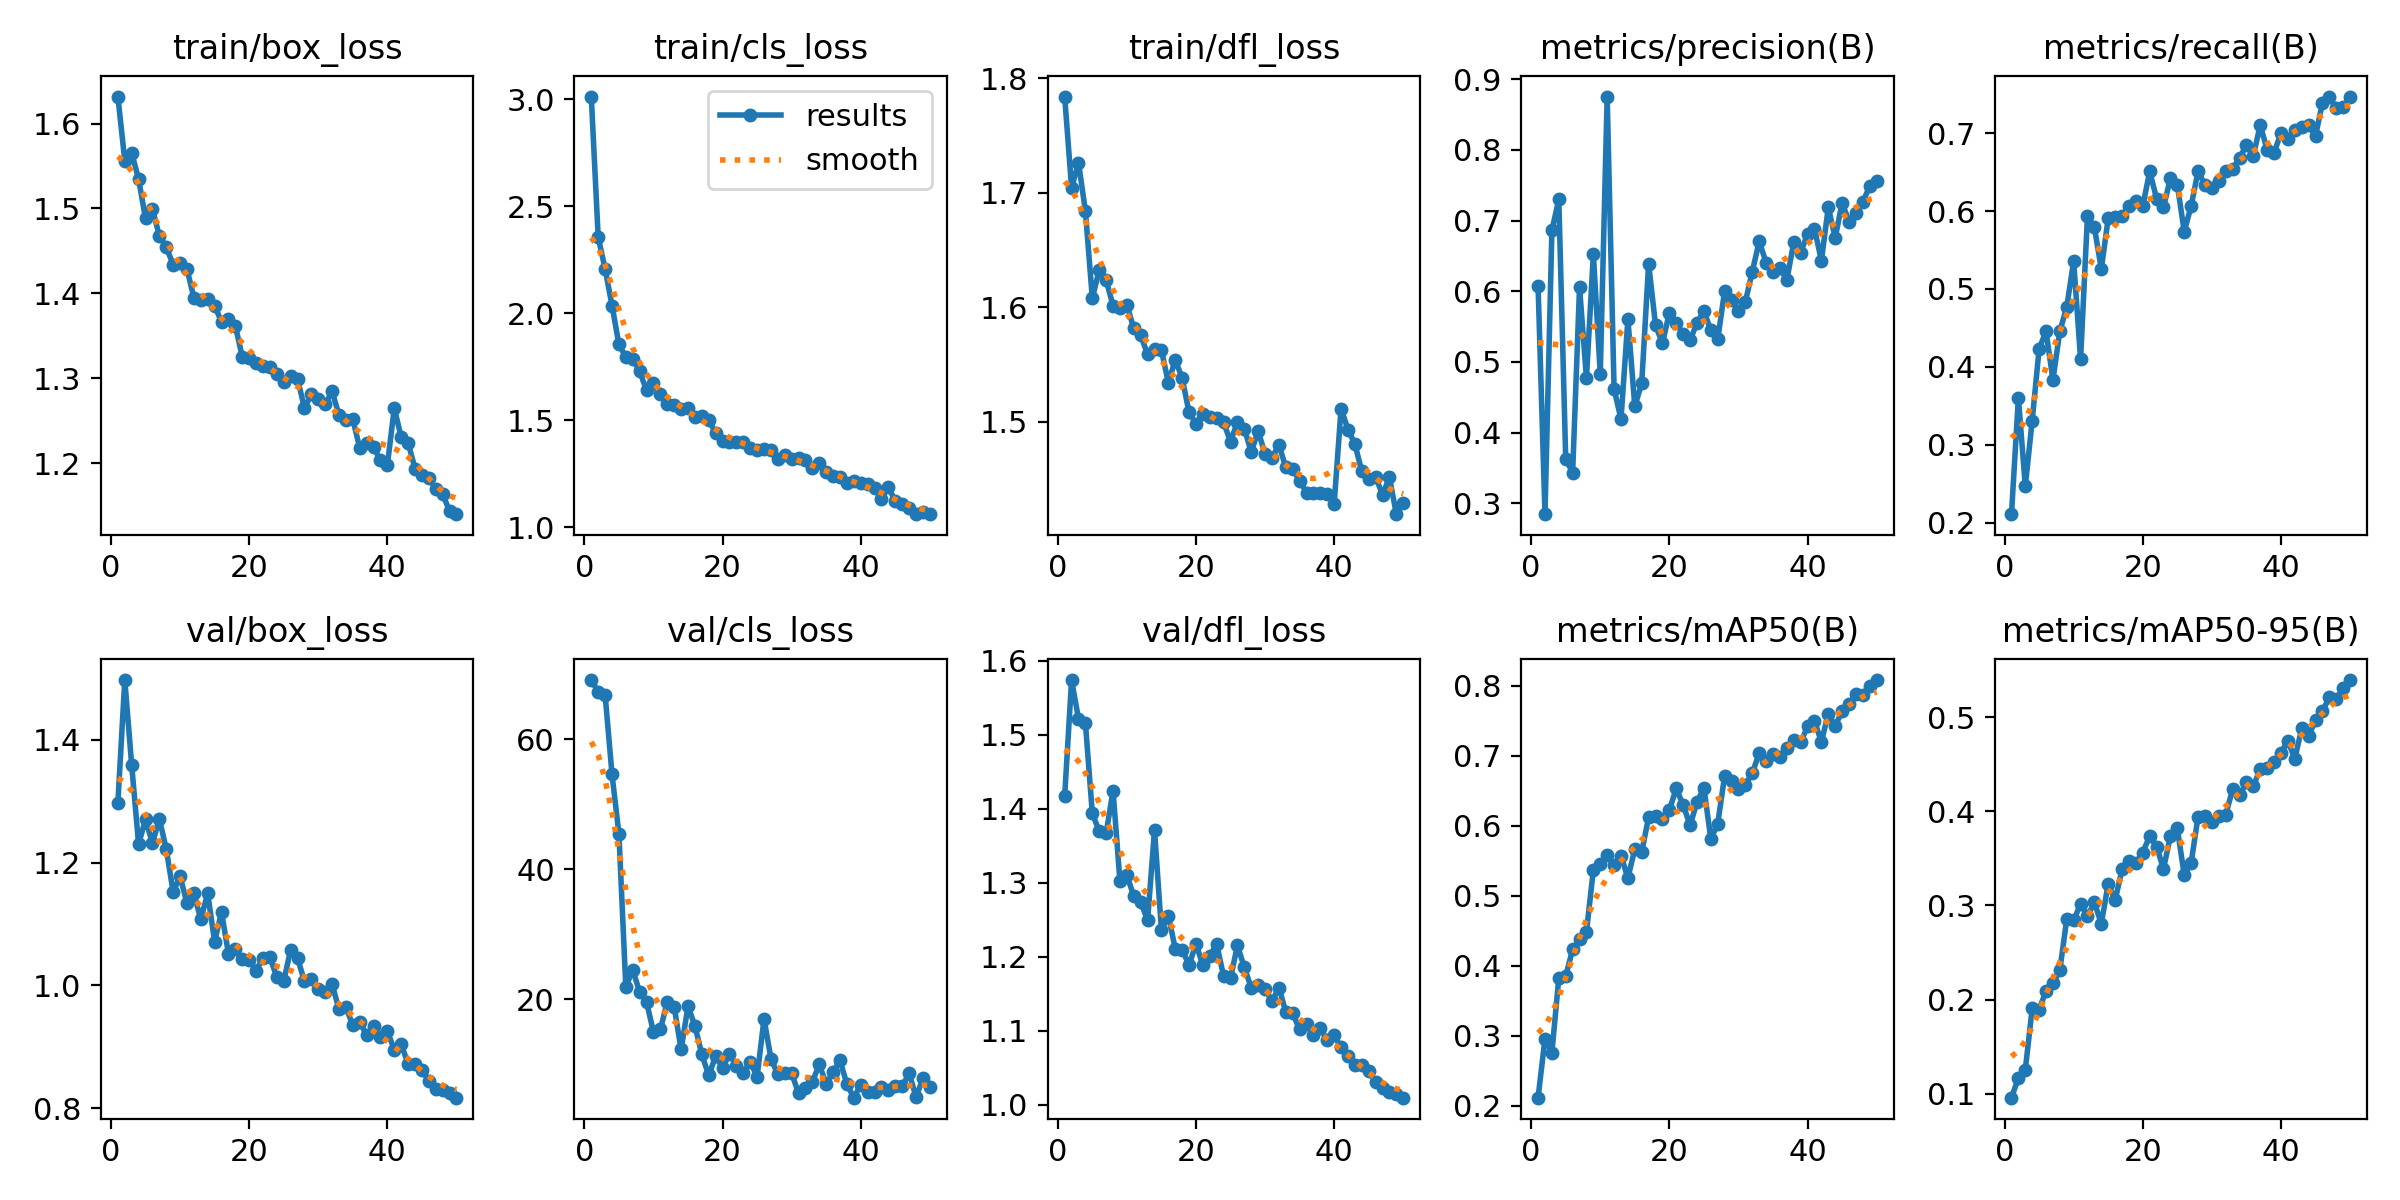
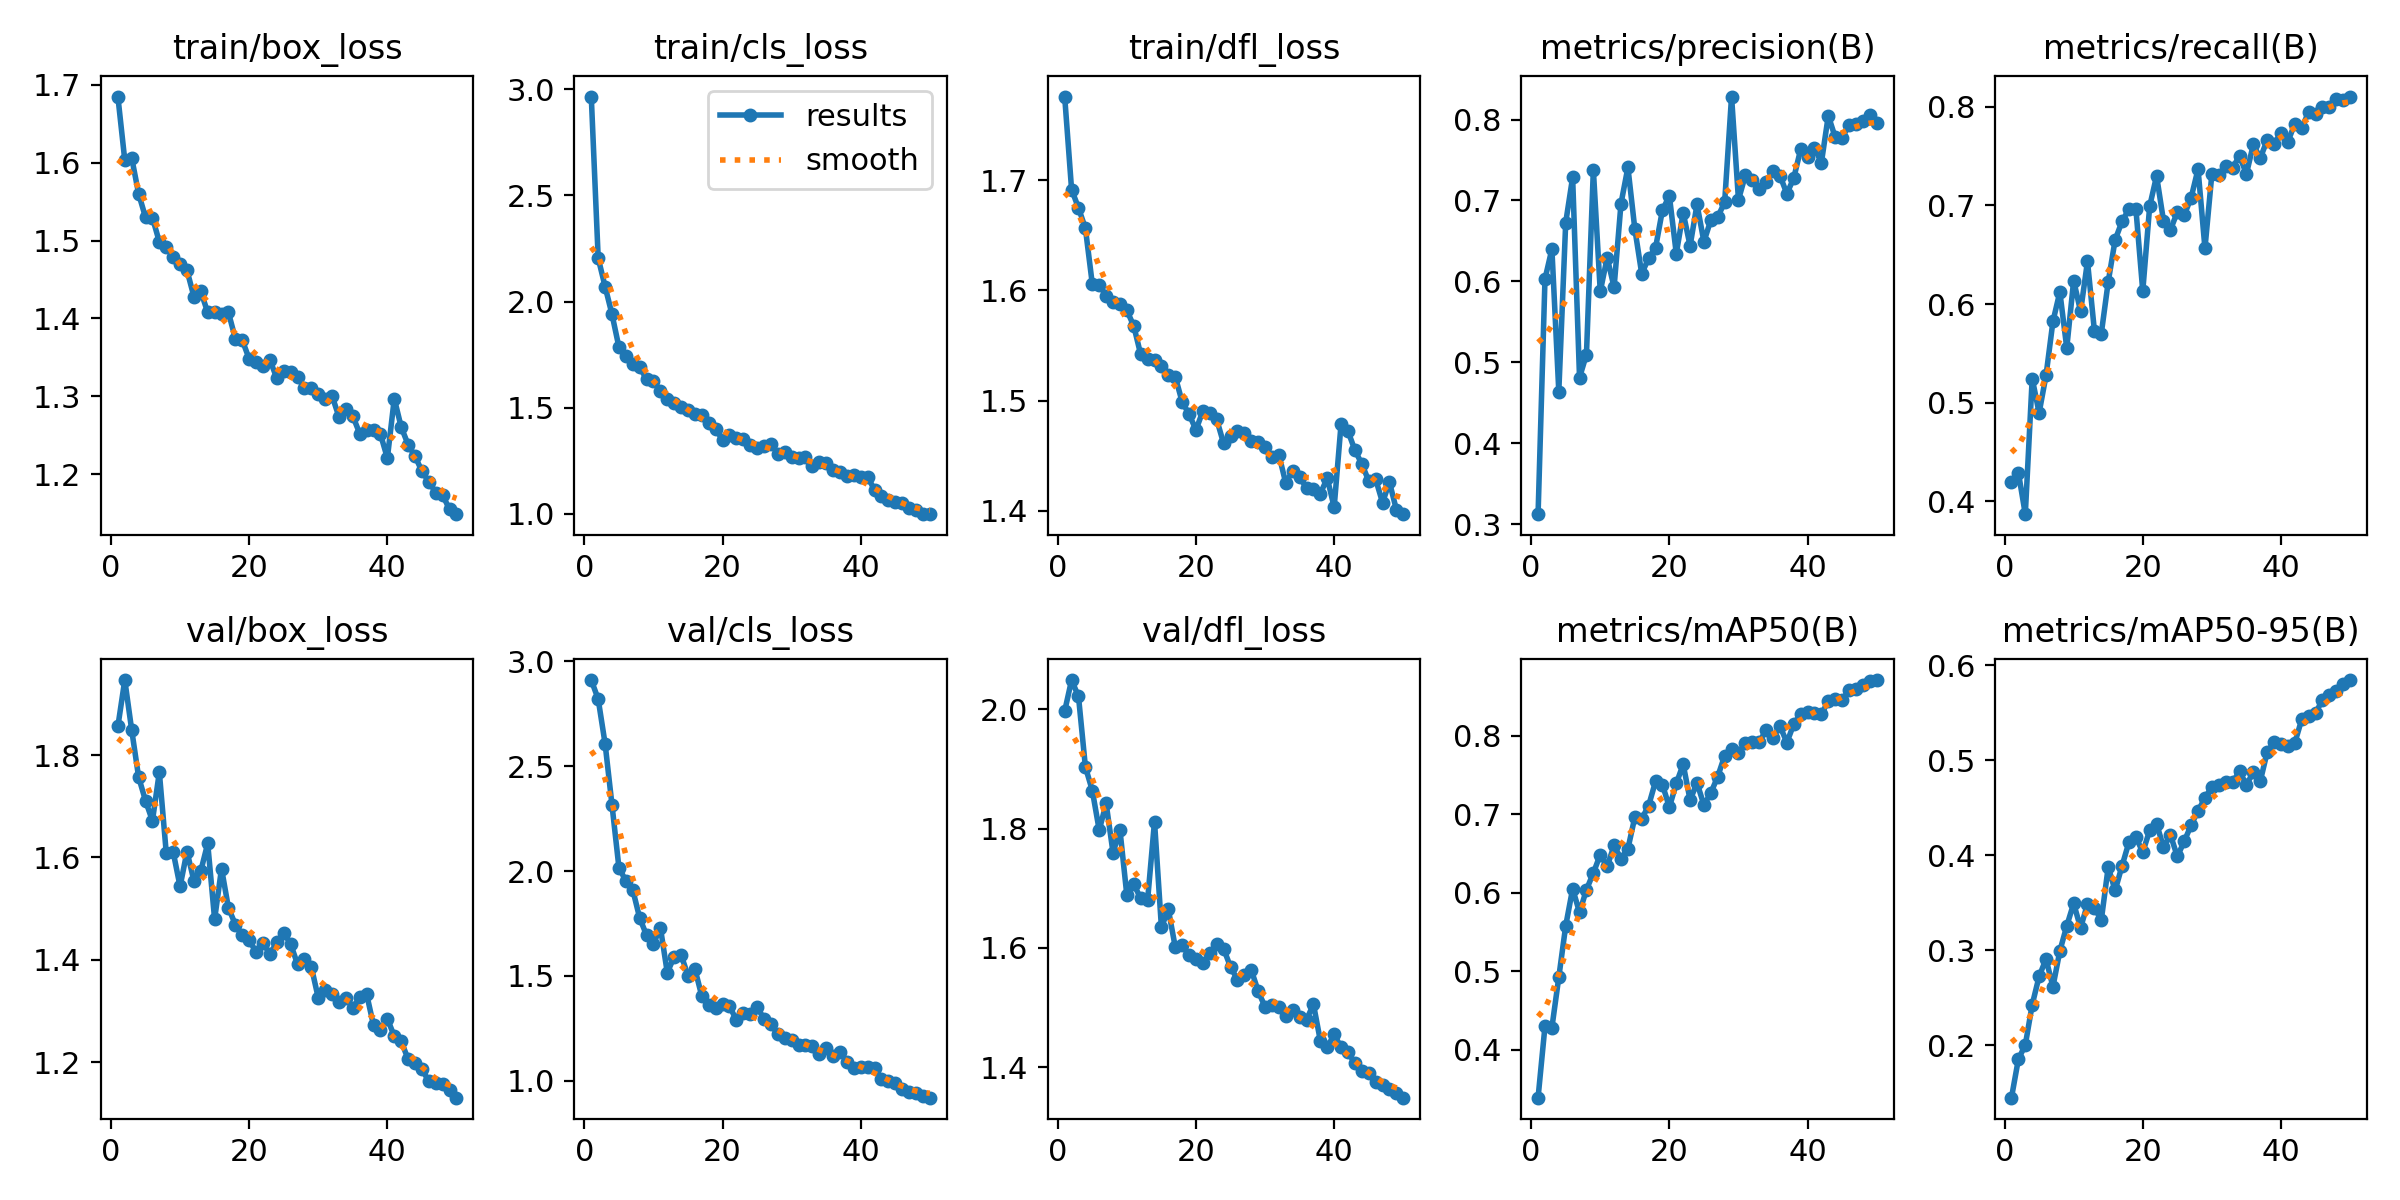
feat: 补全 470 张缺失标注并重新训练，mAP@50 0.637 -> 0.871
标注修复（见 README 第 6 节）：
- 从官方 Pascal VOC 标注重新生成全部 YOLO 标注，三方交叉验证一致率 100%
- scratches: 0 框/0 张 -> 482 框/269 张
- rolled-in_scale: 140 框/70 张 -> 559 框/270 张
- 总标注框 2768 -> 3738，修复 3 个重复框

重新训练（yolov8n，参数与 v1 完全一致，输出 runs/yolov8n_neu_det_v2）：
- mAP@50: 0.637 -> 0.871（+0.234）
- mAP@50-95: 0.416 -> 0.584（+0.169）
- scratches mAP@50: 0.000 -> 0.984
- rolled-in_scale mAP@50: 0.469 -> 0.801

README 更新：
- 实验结果拆为整体指标 + 分类别对比，并说明 v1 的 0.808 为虚高数字
- 新增第 9 节「已知局限」（验证集与训练集相同、crazing 类偏低等）
- 修正数据集章节中「自动切分 20% 验证集」的错误描述
- docs 展示图换为 v2 结果，补充 PR 曲线与标注分布图

diff --git a/README.md b/README.md
@@ -2,7 +2,9 @@
 
 基于 **YOLOv8n** 的热轧带钢表面缺陷检测项目，在公开数据集 **NEU-DET** 上完成 6 类缺陷的检测训练与推理。
 
-`mAP@50 = 0.808` · `mAP@50-95 = 0.539` · 50 epochs · 单卡 RTX 4060 训练约 54 分钟
+`mAP@50 = 0.871` · `mAP@50-95 = 0.584` · 6 类全部有效检出 · 50 epochs · 单卡 RTX 4060 训练约 61 分钟
+
+> 本项目在训练中途发现原始标注存在 29% 缺失（`scratches` 类零标注），遂从官方 Pascal VOC 标注重新生成全部标注并重新训练。**修复前模型的 mAP@50 表面为 0.808，但在完整标注上实测仅 0.637**——修复后提升至 **0.871**。详见第 6 节。
 
 ![训练曲线](docs/01-training-curves.png)
 
@@ -23,9 +25,9 @@
 
 - 原始规模：1800 张 200×200 灰度图，6 类缺陷各 300 张，含 Pascal VOC 格式标注
 - 本项目使用：**1620 张**（6 类各 270 张）
-- 标注框总数：**3738** 个
-- 数据划分：训练/验证共用同一目录，由 Ultralytics 自动切分 20% 作为验证集
+- 标注框总数：**3738** 个（修复标注前为 2768 个）
 - 标注来源：官方 Pascal VOC 标注转换而来（详见第 6 节「标注修复记录」）
+- 数据划分：`data.yaml` 中 train / val 指向同一目录，**因此当前验证集与训练集相同**（见第 8 节「已知局限」）
 
 | ID | 英文名 | 中文名 | 缺陷特征 |
 |:--:|---|---|---|
@@ -49,29 +51,63 @@
 |---|---|
 | ![patches](docs/samples/patches.jpg) | ![pitted_surface](docs/samples/pitted_surface.jpg) |
 
+| rolled-in_scale（氧化铁皮压入） | scratches（划痕） |
+|---|---|
+| ![rolled-in_scale](docs/samples/rolled-in_scale.jpg) | ![scratches](docs/samples/scratches.jpg) |
+
+> 后两类在修复标注前是**空白无框**的（标注文件缺失），修复后才画出标注框，可作为第 6 节的直观对照。
+
 ## 3. 实验结果
 
-### 整体指标（第 50 轮，验证集）
+> 以下指标均使用 `best.pt` 在**修复后的完整标注**上评估（1620 张图 / 3738 个标注框）。
 
-| 指标 | 数值 |
+### 3.1 整体指标（第 50 轮）
+
+| 指标 | 修复标注前（v1） | 修复标注后（v2） | 变化 |
+|---|---:|---:|---:|
+| Precision | 0.624 | **0.792** | +0.168 |
+| Recall | 0.574 | **0.813** | +0.239 |
+| **mAP@50** | 0.637 | **0.871** | **+0.234** |
+| mAP@50-95 | 0.416 | **0.584** | +0.169 |
+
+训练配置完全一致（yolov8n / 50 epochs / imgsz 640 / batch 16 / seed 0），仅标注数据不同，属同口径对照。
+
+### 3.2 分类别 mAP@50 对比（关键）
+
+| 类别 | v1（修复前） | v2（修复后） | 变化 |
+|---|---:|---:|---:|
+| crazing | 0.596 | 0.628 | +0.032 |
+| inclusion | 0.887 | 0.938 | +0.051 |
+| patches | 0.978 | 0.985 | +0.007 |
+| pitted_surface | 0.894 | 0.890 | -0.003 |
+| rolled-in_scale | 0.469 | **0.801** | **+0.333** |
+| **scratches** | **0.000** | **0.984** | **+0.984** |
+
+`scratches` 从「完全检不出」到「mAP@50 = 0.984」，`rolled-in_scale` 提升 33 个百分点——这两类正是标注缺失最严重的类别，与问题定位完全吻合。
+
+> v1 在自己（残缺）的标注上评估时 mAP@50 为 0.808，但放到完整标注上只有 0.637。**0.808 是虚高数字**：29% 的图片被当作纯背景，模型漏检这些目标不会受罚。
+
+### 3.3 训练曲线与评估图
+
+| 训练曲线 | 归一化混淆矩阵 |
 |---|---|
-| Precision | 0.756 |
-| Recall | 0.747 |
-| **mAP@50** | **0.808** |
-| mAP@50-95 | 0.539 |
-| 训练轮数 | 50（patience=10 早停未触发） |
-| 训练耗时 | 3218 s（约 54 分钟） |
-| 单轮平均耗时 | 约 64 s |
+| ![training curves](docs/01-training-curves.png) | ![confusion matrix](docs/02-confusion-matrix.png) |
 
-### 混淆矩阵与 F1 曲线
-
-| 归一化混淆矩阵 | F1-Confidence 曲线 |
+| F1-Confidence 曲线 | PR 曲线 |
 |---|---|
-| ![confusion matrix](docs/02-confusion-matrix.png) | ![f1 curve](docs/03-f1-curve.png) |
+| ![f1 curve](docs/03-f1-curve.png) | ![pr curve](docs/04-pr-curve.png) |
 
-### 验证集预测结果
+### 3.4 验证集预测结果
 
-![val prediction](docs/04-val-prediction.jpg)
+![val prediction](docs/05-val-prediction.jpg)
+
+### 3.5 标注分布
+
+![label distribution](docs/06-label-distribution.jpg)
+
+- 训练轮数：50（`patience=10` 早停未触发）
+- 训练耗时：3651 s（约 61 分钟）
+- 推理速度：0.3 ms 预处理 + 4.0 ms 推理 + 1.1 ms 后处理 / 每张（RTX 4060，imgsz 640）
 
 ## 4. 环境与依赖
 
@@ -129,7 +165,7 @@ model.train(
 )
 ```
 
-训练日志、曲线图与权重输出到 `runs/yolov8n_neu_det/`：
+训练日志、曲线图与权重输出到 `runs/yolov8n_neu_det_v2/`：
 - `weights/best.pt` —— 验证集最优权重
 - `weights/last.pt` —— 最后一轮权重
 - `results.csv` —— 逐轮指标明细
@@ -191,6 +227,18 @@ python view_labels.py
 
 最终 1620 张图中 **1619 张有标注**，仅 `scratches_247` 因原始发布包中缺失对应 XML 而保留为背景图。
 
+### 修复效果（模型层面）
+
+用同样参数重新训练后，在完整标注上评估：
+
+| | v1（修复前） | v2（修复后） |
+|---|---:|---:|
+| mAP@50 | 0.637 | **0.871** |
+| scratches mAP@50 | 0.000 | **0.984** |
+| rolled-in_scale mAP@50 | 0.469 | **0.801** |
+
+完整对比见第 3 节。旧训练结果保留在 `runs/yolov8n_neu_det/`，新版在 `runs/yolov8n_neu_det_v2/`。
+
 ## 7. 项目结构
 
 ```
@@ -212,6 +260,18 @@ yolo_train/
 - **显存控制**：`yolov8n` + `batch=16` + `imgsz=640` 在 8GB 显存下占用平稳，batch 可上调至 32。
 - **AMP 兼容性**：新版 Ultralytics 默认启用 AMP，首次运行会额外下载模型做兼容性检查，本项目关闭 `amp` 以避免多余下载。
 - **中文类别输出**：`predict.py` 中通过 `CLASS_CN` 字典做英文到中文的映射；注意 `boxes.cls` 中是 GPU 张量，必须先 `int()` 转换后才能作字典键。
+- **标注来源获取**：逐文件 HTTP 抓取 HuggingFace 数据集会被 429 限流，改用 `git clone --depth 1` 一次性拉取最稳；本机未装 git-lfs 时 checkout 大文件会失败，可跳过（标注是纯文本，不受影响）。
+
+## 9. 已知局限
+
+| 局限 | 说明 | 改进方向 |
+|---|---|---|
+| **验证集与训练集相同** | `data.yaml` 中 `train` / `val` 均指向 `train/images`，评估指标是在训练数据上测得的，会偏乐观 | 按官方 `ImageSets` 或自行按 8:2 切分独立验证集后重测 |
+| `crazing` 类精度偏低 | mAP@50 仅 0.628，裂纹目标细小且边界模糊，是 6 类中唯一明显短板 | 增大输入尺寸、针对性增强、或对该类做过采样 |
+| 未做独立测试集评估 | 目前只有训练/验证，缺少完全未参与训练的测试集 | 从 NEU-DET 原 1800 张中取未使用的 180 张作测试集 |
+| 未导出部署格式 | 权重仍是 `.pt` | 导出 ONNX / TensorRT 并测推理时延，向产线部署靠拢 |
+
+## 10. 关于数据集
 
 ## 9. 关于数据集
 
@@ -219,6 +279,8 @@ NEU-DET 由东北大学发布，可公开获取，常见下载渠道包括 Kaggl
 
 本仓库不包含数据集原始图片与训练好的权重文件，以保证仓库轻量。如需权重可自行训练生成，或联系作者。
 
-## 10. 许可
+本项目使用的标注由官方 Pascal VOC 标注转换而来，来源为 HuggingFace 上的 `KeenForgeAI/NEU-DET-corrected`（含 1797 份官方 XML，类别映射与本项目的 `data.yaml` 完全一致）。
+
+## 11. 许可
 
 本项目代码仅供学习与研究使用。Ultralytics YOLOv8 采用 AGPL-3.0 许可，商业使用请遵循其条款。
